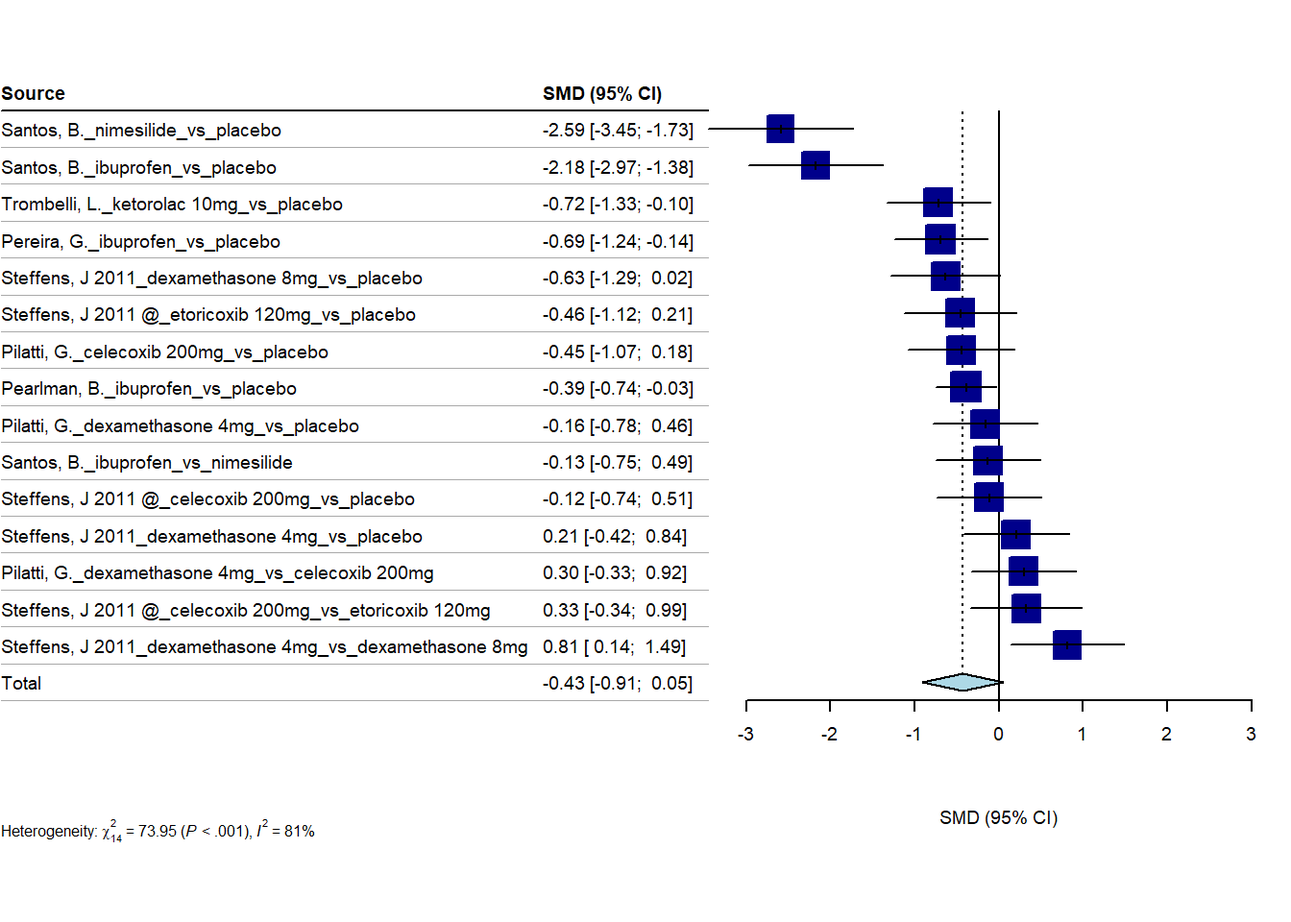
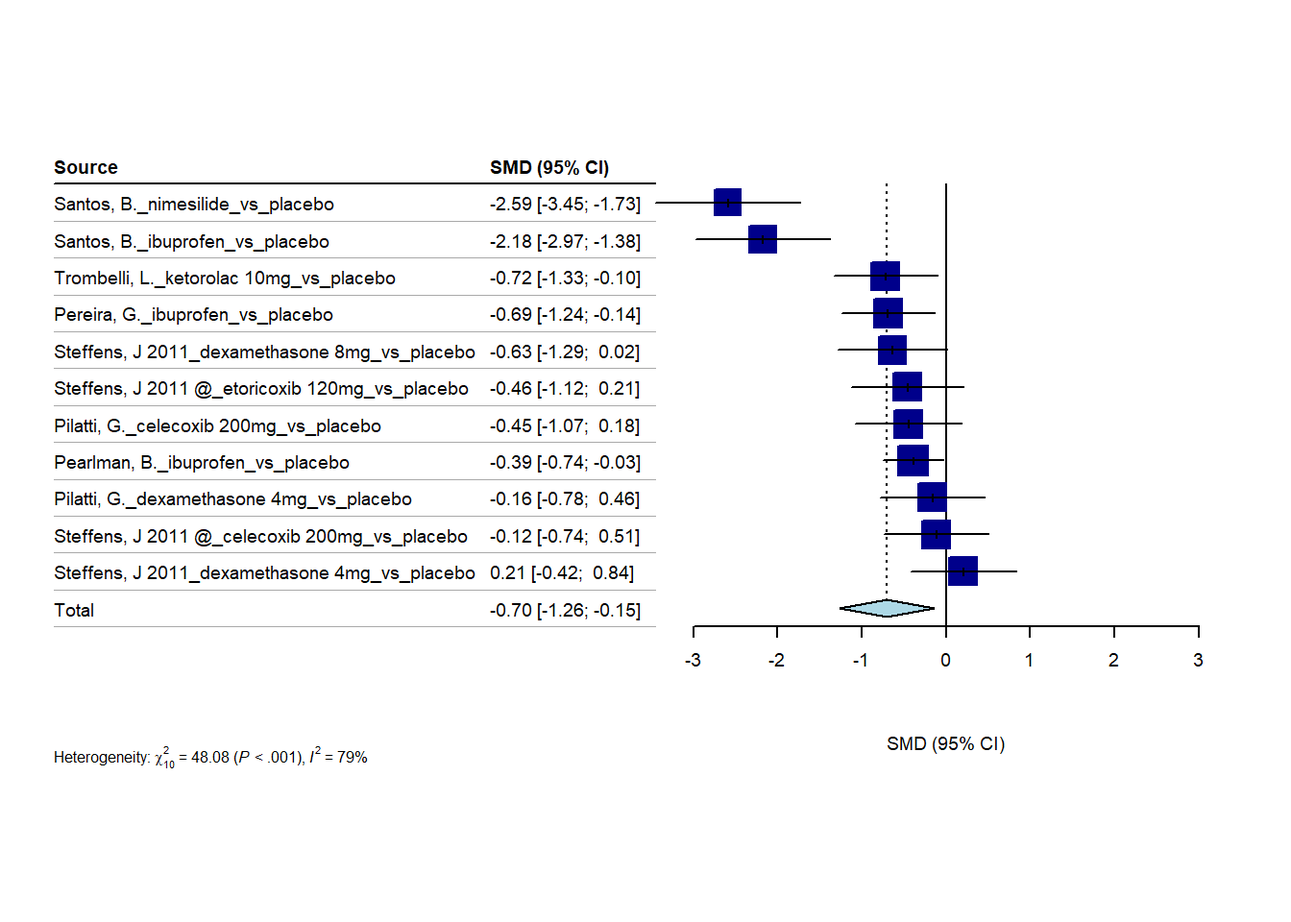
9/7/2023

diff --git a/docs/2023_0301_Christos.html b/docs/2023_0301_Christos.html
@@ -404,7 +404,7 @@ aria-hidden="true"></span> </a>
 <div class="tab-content">
 <div id="summary" class="tab-pane fade in active">
 <p>
-<strong>Last updated:</strong> 2023-09-06
+<strong>Last updated:</strong> 2023-09-07
 </p>
 <p>
 <strong>Checks:</strong> <span
@@ -538,15 +538,15 @@ project makes it easier to run your code on other machines.</p>
 <div class="panel panel-default">
 <div class="panel-heading">
 <p class="panel-title">
-<a data-toggle="collapse" data-parent="#workflowr-checks" href="#strongRepositoryversionstrongahrefhttpsgithubcomhan16Collaborationstree67f6d954cbfee03d641643f161b1d533b949f771targetblank67f6d95a">
+<a data-toggle="collapse" data-parent="#workflowr-checks" href="#strongRepositoryversionstrongahrefhttpsgithubcomhan16Collaborationstreea6275964fa8ff6447bf1c0b9a8a379a9f33f50e7targetblanka627596a">
 <span class="glyphicon glyphicon-ok text-success"
 aria-hidden="true"></span> <strong>Repository version:</strong>
-<a href="https://github.com/han16/Collaborations/tree/67f6d954cbfee03d641643f161b1d533b949f771" target="_blank">67f6d95</a>
+<a href="https://github.com/han16/Collaborations/tree/a6275964fa8ff6447bf1c0b9a8a379a9f33f50e7" target="_blank">a627596</a>
 </a>
 </p>
 </div>
 <div
[2 lines of base64/hex data omitted]
 class="panel-collapse collapse">
 <div class="panel-body">
 <p>
@@ -556,7 +556,7 @@ reproducibility.
 </p>
 <p>
 The results in this page were generated with repository version
-<a href="https://github.com/han16/Collaborations/tree/67f6d954cbfee03d641643f161b1d533b949f771" target="_blank">67f6d95</a>.
+<a href="https://github.com/han16/Collaborations/tree/a6275964fa8ff6447bf1c0b9a8a379a9f33f50e7" target="_blank">a627596</a>.
 See the <em>Past versions</em> tab to see a history of the changes made
 to the R Markdown and HTML files.
 </p>
@@ -621,6 +621,40 @@ Message
 </tr>
 </thead>
 <tbody>
+<tr>
+<td>
+Rmd
+</td>
+<td>
+<a href="https://github.com/han16/Collaborations/blob/a6275964fa8ff6447bf1c0b9a8a379a9f33f50e7/analysis/2023_0301_Christos.Rmd" target="_blank">a627596</a>
+</td>
+<td>
+Han
+</td>
+<td>
+2023-09-06
+</td>
+<td>
+9/6/2023
+</td>
+</tr>
+<tr>
+<td>
+html
+</td>
+<td>
+<a href="https://rawcdn.githack.com/han16/Collaborations/a6275964fa8ff6447bf1c0b9a8a379a9f33f50e7/docs/2023_0301_Christos.html" target="_blank">a627596</a>
+</td>
+<td>
+Han
+</td>
+<td>
+2023-09-06
+</td>
+<td>
+9/6/2023
+</td>
+</tr>
 <tr>
 <td>
 Rmd
@@ -1504,7 +1538,7 @@ dexamethasone 4mg  0.1467</code></pre>
 <h3>forest plot</h3>
 <p><img src="figure/2023_0301_Christos.Rmd/unnamed-chunk-11-1.png" width="672" style="display: block; margin: auto;" /></p>
 <div class="datatables html-widget html-fill-item-overflow-hidden html-fill-item" id="htmlwidget-88fdd2a34d502a66744b" style="width:100%;height:auto;"></div>
-<script type="application/json" data-for="htmlwidget-88fdd2a34d502a66744b">{"x":{"filter":"none","vertical":false,"extensions":["Buttons"],"caption":"<caption>one hour<\/caption>","data":[["Pereira, G._dexamethasone 4mg_vs_placebo","Pilatti, G._celecoxib 200mg_vs_placebo","Steffens, J 2011_dexamethasone 4mg_vs_placebo","Steffens, J 2011_dexamethasone 8mg_vs_placebo","Steffens, J 2011 @_celecoxib 200mg_vs_placebo","Steffens, J 2011 @_etoricoxib 120mg_vs_placebo","Steffens, J 2010_dexamethasone 8mg_vs_placebo","Steffens, J 2010_etoricoxib 120mg_vs_placebo","Trombelli, L._ketorolac 10mg_vs_placebo","Pereira, G._dexamethasone 4mg_vs_celecoxib 200mg","Steffens, J 2011_dexamethasone 4mg_vs_dexamethasone 8mg","Steffens, J 2011 @_celecoxib 200mg_vs_etoricoxib 120mg","Steffens, J 2010_dexamethasone 8mg_vs_etoricoxib 120mg"],[20,20,19,18,20,16,15,15,22,20,19,20,15],[10.84,4.36,10.3,2.64,4,2,1.9,2.2,5.32,10.84,10.3,4,1.9],[18.28,8.34,17.96,5.52,8,6,4.2,4.5,6.69,18.28,17.96,8,4.2],[20,20,20,20,20,20,15,15,21,20,18,16,15],[25.47,25.47,22.35,22.35,22,22,9.9,9.9,20.38,4.36,2.64,2,2.2],[31.19,31.19,29.86,29.86,30,30,12,12,17.23,8.34,5.52,6,4.5]],"container":"<table class=\"display\">\n  <thead>\n    <tr>\n      <th> <\/th>\n      <th>samplesize_exp<\/th>\n      <th>mean_exp<\/th>\n      <th>sd_exp<\/th>\n      <th>samplesize_contr<\/th>\n      <th>mean_contr<\/th>\n      <th>sd_contr<\/th>\n    <\/tr>\n  <\/thead>\n<\/table>","options":{"dom":"Blfrtip","buttons":["copy","csv","excel","pdf","print"],"lengthMenu":[[10,25,50,-1],["10","25","50","All"]],"columnDefs":[{"className":"dt-right","targets":[1,2,3,4,5,6]},{"orderable":false,"targets":0}],"order":[],"autoWidth":false,"orderClasses":false}},"evals":[],"jsHooks":[]}</script>
+<script type="application/json" data-for="htmlwidget-88fdd2a34d502a66744b">{"x":{"filter":"none","vertical":false,"extensions":["Buttons"],"caption":"<caption>3 hours<\/caption>","data":[["Pereira, G._dexamethasone 4mg_vs_placebo","Pilatti, G._celecoxib 200mg_vs_placebo","Steffens, J 2011_dexamethasone 4mg_vs_placebo","Steffens, J 2011_dexamethasone 8mg_vs_placebo","Steffens, J 2011 @_celecoxib 200mg_vs_placebo","Steffens, J 2011 @_etoricoxib 120mg_vs_placebo","Steffens, J 2010_dexamethasone 8mg_vs_placebo","Steffens, J 2010_etoricoxib 120mg_vs_placebo","Trombelli, L._ketorolac 10mg_vs_placebo","Pereira, G._dexamethasone 4mg_vs_celecoxib 200mg","Steffens, J 2011_dexamethasone 4mg_vs_dexamethasone 8mg","Steffens, J 2011 @_celecoxib 200mg_vs_etoricoxib 120mg","Steffens, J 2010_dexamethasone 8mg_vs_etoricoxib 120mg"],[20,20,19,18,20,16,15,15,22,20,19,20,15],[10.84,4.36,10.3,2.64,4,2,1.9,2.2,5.32,10.84,10.3,4,1.9],[18.28,8.34,17.96,5.52,8,6,4.2,4.5,6.69,18.28,17.96,8,4.2],[20,20,20,20,20,20,15,15,21,20,18,16,15],[25.47,25.47,22.35,22.35,22,22,9.9,9.9,20.38,4.36,2.64,2,2.2],[31.19,31.19,29.86,29.86,30,30,12,12,17.23,8.34,5.52,6,4.5]],"container":"<table class=\"display\">\n  <thead>\n    <tr>\n      <th> <\/th>\n      <th>samplesize_exp<\/th>\n      <th>mean_exp<\/th>\n      <th>sd_exp<\/th>\n      <th>samplesize_contr<\/th>\n      <th>mean_contr<\/th>\n      <th>sd_contr<\/th>\n    <\/tr>\n  <\/thead>\n<\/table>","options":{"dom":"Blfrtip","buttons":["copy","csv","excel","pdf","print"],"lengthMenu":[[10,25,50,-1],["10","25","50","All"]],"columnDefs":[{"className":"dt-right","targets":[1,2,3,4,5,6]},{"orderable":false,"targets":0}],"order":[],"autoWidth":false,"orderClasses":false}},"evals":[],"jsHooks":[]}</script>
 </div>
 <div id="network-meta-analysis-1" class="section level3">
 <h3>network meta-analysis</h3>
@@ -1547,7 +1581,7 @@ placebo            0.0012</code></pre>
 <h3>forest plot</h3>
 <p><img src="figure/2023_0301_Christos.Rmd/unnamed-chunk-16-1.png" width="672" style="display: block; margin: auto;" /></p>
 <div class="datatables html-widget html-fill-item-overflow-hidden html-fill-item" id="htmlwidget-bb3486349adfa5d821dc" style="width:100%;height:auto;"></div>
-<script type="application/json" data-for="htmlwidget-bb3486349adfa5d821dc">{"x":{"filter":"none","vertical":false,"extensions":["Buttons"],"caption":"<caption>one hour<\/caption>","data":[["Pereira, G._ibuprofen_vs_placebo","Pilatti, G._dexamethasone 4mg_vs_placebo","Pilatti, G._celecoxib 200mg_vs_placebo","Santos, B._ibuprofen_vs_placebo1","Santos, B._nimesilide_vs_placebo2","Steffens, J 2011_dexamethasone 4mg_vs_placebo","Steffens, J 2011_dexamethasone 8mg_vs_placebo","Steffens, J 2011 @_celecoxib 200mg_vs_placebo","Steffens, J 2011 @_etoricoxib 120mg_vs_placebo","Steffens, J 2010_dexamethasone 8mg_vs_placebo","Steffens, J 2010_etoricoxib 120mg_vs_placebo","Trombelli, L._ketorolac 10mg_vs_placebo","Pilatti, G._dexamethasone 4mg_vs_celecoxib 200mg","Santos, B._ibuprofen_vs_nimesilide","Steffens, J 2011_dexamethasone 4mg_vs_dexamethasone 8mg","Steffens, J 2011 @_celecoxib 200mg_vs_etoricoxib 120mg","Steffens, J 2010_dexamethasone 8mg_vs_etoricoxib 120mg"],[27,20,20,20,20,19,18,20,16,15,15,22,20,20,19,20,15],[4.1,7.52,3.42,32,26,7.15,1.23,3,1,1.1,0.9,14.73,7.52,32,7.15,3,1.1],[5.7,12.34,6.38,20.4,20.3,12.13,3.17,6,3,2.7,2.7,12.95,12.34,20.4,12.13,6,2.7],[27,20,20,20,20,20,20,20,20,15,15,21,20,20,18,16,15],[15.6,10.94,10.94,37.5,44,11.9,11.9,12,12,10.1,10.1,22.95,3.42,26,1.23,1,0.9],[13.6,14.81,14.81,11.6,7.5,16.71,16.71,17,17,17.1,17.1,21.9,6.38,20.3,3.17,3,2.7]],"container":"<table class=\"display\">\n  <thead>\n    <tr>\n      <th> <\/th>\n      <th>samplesize_exp<\/th>\n      <th>mean_exp<\/th>\n      <th>sd_exp<\/th>\n      <th>samplesize_contr<\/th>\n      <th>mean_contr<\/th>\n      <th>sd_contr<\/th>\n    <\/tr>\n  <\/thead>\n<\/table>","options":{"dom":"Blfrtip","buttons":["copy","csv","excel","pdf","print"],"lengthMenu":[[10,25,50,-1],["10","25","50","All"]],"columnDefs":[{"className":"dt-right","targets":[1,2,3,4,5,6]},{"orderable":false,"targets":0}],"order":[],"autoWidth":false,"orderClasses":false}},"evals":[],"jsHooks":[]}</script>
+<script type="application/json" data-for="htmlwidget-bb3486349adfa5d821dc">{"x":{"filter":"none","vertical":false,"extensions":["Buttons"],"caption":"<caption>6 hours<\/caption>","data":[["Pereira, G._ibuprofen_vs_placebo","Pilatti, G._dexamethasone 4mg_vs_placebo","Pilatti, G._celecoxib 200mg_vs_placebo","Santos, B._ibuprofen_vs_placebo1","Santos, B._nimesilide_vs_placebo2","Steffens, J 2011_dexamethasone 4mg_vs_placebo","Steffens, J 2011_dexamethasone 8mg_vs_placebo","Steffens, J 2011 @_celecoxib 200mg_vs_placebo","Steffens, J 2011 @_etoricoxib 120mg_vs_placebo","Steffens, J 2010_dexamethasone 8mg_vs_placebo","Steffens, J 2010_etoricoxib 120mg_vs_placebo","Trombelli, L._ketorolac 10mg_vs_placebo","Pilatti, G._dexamethasone 4mg_vs_celecoxib 200mg","Santos, B._ibuprofen_vs_nimesilide","Steffens, J 2011_dexamethasone 4mg_vs_dexamethasone 8mg","Steffens, J 2011 @_celecoxib 200mg_vs_etoricoxib 120mg","Steffens, J 2010_dexamethasone 8mg_vs_etoricoxib 120mg"],[27,20,20,20,20,19,18,20,16,15,15,22,20,20,19,20,15],[4.1,7.52,3.42,32,26,7.15,1.23,3,1,1.1,0.9,14.73,7.52,32,7.15,3,1.1],[5.7,12.34,6.38,20.4,20.3,12.13,3.17,6,3,2.7,2.7,12.95,12.34,20.4,12.13,6,2.7],[27,20,20,20,20,20,20,20,20,15,15,21,20,20,18,16,15],[15.6,10.94,10.94,37.5,44,11.9,11.9,12,12,10.1,10.1,22.95,3.42,26,1.23,1,0.9],[13.6,14.81,14.81,11.6,7.5,16.71,16.71,17,17,17.1,17.1,21.9,6.38,20.3,3.17,3,2.7]],"container":"<table class=\"display\">\n  <thead>\n    <tr>\n      <th> <\/th>\n      <th>samplesize_exp<\/th>\n      <th>mean_exp<\/th>\n      <th>sd_exp<\/th>\n      <th>samplesize_contr<\/th>\n      <th>mean_contr<\/th>\n      <th>sd_contr<\/th>\n    <\/tr>\n  <\/thead>\n<\/table>","options":{"dom":"Blfrtip","buttons":["copy","csv","excel","pdf","print"],"lengthMenu":[[10,25,50,-1],["10","25","50","All"]],"columnDefs":[{"className":"dt-right","targets":[1,2,3,4,5,6]},{"orderable":false,"targets":0}],"order":[],"autoWidth":false,"orderClasses":false}},"evals":[],"jsHooks":[]}</script>
 </div>
 <div id="network-meta-analysis-2" class="section level3">
 <h3>network meta-analysis</h3>
@@ -1574,7 +1608,7 @@ placebo            0.0230</code></pre>
 <div id="sample-data-3" class="section level3">
 <h3>sample data</h3>
 <div class="datatables html-widget html-fill-item-overflow-hidden html-fill-item" id="htmlwidget-44474b3e8cd160f85a98" style="width:100%;height:auto;"></div>
-<script type="application/json" data-for="htmlwidget-44474b3e8cd160f85a98">{"x":{"filter":"none","vertical":false,"extensions":["Buttons"],"caption":"<caption>6 hours<\/caption>","data":[["1","2","3","4","5","6","7","8","9","10","11","12","13","14","15","16"],["Pilatti, G.","Pilatti, G.","Pilatti, G.","Sanchez-Perez, A.","Sanchez-Perez, A.","Steffens, J 2011","Steffens, J 2011","Steffens, J 2011","Steffens, J 2011 @","Steffens, J 2011 @","Steffens, J 2011 @","Steffens, J 2010","Steffens, J 2010","Steffens, J 2010","Trombelli, L.","Trombelli, L."],["placebo","dexamethasone 4mg","celecoxib 200mg","dexketoprofen trometamol (DKT) 25mg","placebo","dexamethasone 4mg","dexamethasone 8mg","placebo","celecoxib 200mg","etoricoxib 120mg","placebo","placebo","dexamethasone 8mg","etoricoxib 120mg","ketorolac 10mg","placebo"],["20","20","20","41","42","19","18","20","20","16","20","15","15","15","22","21"],[9.47,6.52,3.31,11.14,9.95,6.2,0.64,9.7,3,2,10,8.3,0.3,1.3,21.55,27.67],[12.29,12.82,5.59,15.26,13.83,12.56,1.96,13.83,6,6,24,16,0.9,3.5,16.69,28.23]],"container":"<table class=\"display\">\n  <thead>\n    <tr>\n      <th> <\/th>\n      <th>study<\/th>\n      <th>treatment<\/th>\n      <th>n<\/th>\n      <th>mean<\/th>\n      <th>sd<\/th>\n    <\/tr>\n  <\/thead>\n<\/table>","options":{"dom":"Blfrtip","buttons":["copy","csv","excel","pdf","print"],"lengthMenu":[[10,25,50,-1],["10","25","50","All"]],"columnDefs":[{"className":"dt-right","targets":[4,5]},{"orderable":false,"targets":0}],"order":[],"autoWidth":false,"orderClasses":false}},"evals":[],"jsHooks":[]}</script>
+<script type="application/json" data-for="htmlwidget-44474b3e8cd160f85a98">{"x":{"filter":"none","vertical":false,"extensions":["Buttons"],"caption":"<caption>8 hours<\/caption>","data":[["1","2","3","4","5","6","7","8","9","10","11","12","13","14","15","16"],["Pilatti, G.","Pilatti, G.","Pilatti, G.","Sanchez-Perez, A.","Sanchez-Perez, A.","Steffens, J 2011","Steffens, J 2011","Steffens, J 2011","Steffens, J 2011 @","Steffens, J 2011 @","Steffens, J 2011 @","Steffens, J 2010","Steffens, J 2010","Steffens, J 2010","Trombelli, L.","Trombelli, L."],["placebo","dexamethasone 4mg","celecoxib 200mg","dexketoprofen trometamol (DKT) 25mg","placebo","dexamethasone 4mg","dexamethasone 8mg","placebo","celecoxib 200mg","etoricoxib 120mg","placebo","placebo","dexamethasone 8mg","etoricoxib 120mg","ketorolac 10mg","placebo"],["20","20","20","41","42","19","18","20","20","16","20","15","15","15","22","21"],[9.47,6.52,3.31,11.14,9.95,6.2,0.64,9.7,3,2,10,8.3,0.3,1.3,21.55,27.67],[12.29,12.82,5.59,15.26,13.83,12.56,1.96,13.83,6,6,24,16,0.9,3.5,16.69,28.23]],"container":"<table class=\"display\">\n  <thead>\n    <tr>\n      <th> <\/th>\n      <th>study<\/th>\n      <th>treatment<\/th>\n      <th>n<\/th>\n      <th>mean<\/th>\n      <th>sd<\/th>\n    <\/tr>\n  <\/thead>\n<\/table>","options":{"dom":"Blfrtip","buttons":["copy","csv","excel","pdf","print"],"lengthMenu":[[10,25,50,-1],["10","25","50","All"]],"columnDefs":[{"className":"dt-right","targets":[4,5]},{"orderable":false,"targets":0}],"order":[],"autoWidth":false,"orderClasses":false}},"evals":[],"jsHooks":[]}</script>
 </div>
 <div id="forest-plot-3" class="section level3">
 <h3>forest plot</h3>
@@ -1612,7 +1646,7 @@ dexketoprofen trometamol (DKT) 25mg  0.1145</code></pre>
 <h3>forest plot</h3>
 <p><img src="figure/2023_0301_Christos.Rmd/unnamed-chunk-26-1.png" width="672" style="display: block; margin: auto;" /></p>
 <div class="datatables html-widget html-fill-item-overflow-hidden html-fill-item" id="htmlwidget-7531f021030c44f57ef2" style="width:100%;height:auto;"></div>
-<script type="application/json" data-for="htmlwidget-7531f021030c44f57ef2">{"x":{"filter":"none","vertical":false,"extensions":["Buttons"],"caption":"<caption>8 hours<\/caption>","data":[["Pereira, G._ibuprofen_vs_placebo","Pilatti, G._dexamethasone 4mg_vs_placebo","Pilatti, G._celecoxib 200mg_vs_placebo","Sanchez-Perez, A._dexketoprofen trometamol (DKT) 25mg_vs_placebo","Santos, B._ibuprofen_vs_placebo","Santos, B._nimesilide_vs_placebo","Steffens, J 2011 @_celecoxib 200mg_vs_placebo","Steffens, J 2011 @_etoricoxib 120mg_vs_placebo","Steffens, J 2010_dexamethasone 8mg_vs_placebo","Steffens, J 2010_etoricoxib 120mg_vs_placebo","Trombelli, L._ketorolac 10mg_vs_placebo","Vieth, M._dexamethasone 8mg IV_vs_placebo","Pilatti, G._dexamethasone 4mg_vs_celecoxib 200mg","Santos, B._ibuprofen_vs_nimesilide","Steffens, J 2011 @_celecoxib 200mg_vs_etoricoxib 120mg","Steffens, J 2010_dexamethasone 8mg_vs_etoricoxib 120mg"],[27,20,20,41,20,20,20,16,15,15,22,34,20,20,20,15],[4.4,3.89,3.84,7.86,19.5,26,3,0,0,0.3,7.77,8.5,3.89,19.5,3,0],[6.9,7.83,7.66,13.29,15,15,8,1,0,1.3,10.42,9,7.83,15,8,0],[27,20,20,42,20,20,20,20,15,15,21,34,20,20,16,15],[15.6,6.68,6.68,6.56,21.5,40.5,3,3,0.9,0.9,5.33,4.5,3.84,26,0,0.3],[11.2,11.52,11.52,11.6,14,11.4,8,8,2.6,2.6,7.44,6.5,7.66,15,1,1.3]],"container":"<table class=\"display\">\n  <thead>\n    <tr>\n      <th> <\/th>\n      <th>samplesize_exp<\/th>\n      <th>mean_exp<\/th>\n      <th>sd_exp<\/th>\n      <th>samplesize_contr<\/th>\n      <th>mean_contr<\/th>\n      <th>sd_contr<\/th>\n    <\/tr>\n  <\/thead>\n<\/table>","options":{"dom":"Blfrtip","buttons":["copy","csv","excel","pdf","print"],"lengthMenu":[[10,25,50,-1],["10","25","50","All"]],"columnDefs":[{"className":"dt-right","targets":[1,2,3,4,5,6]},{"orderable":false,"targets":0}],"order":[],"autoWidth":false,"orderClasses":false}},"evals":[],"jsHooks":[]}</script>
+<script type="application/json" data-for="htmlwidget-7531f021030c44f57ef2">{"x":{"filter":"none","vertical":false,"extensions":["Buttons"],"caption":"<caption>24 hours<\/caption>","data":[["Pereira, G._ibuprofen_vs_placebo","Pilatti, G._dexamethasone 4mg_vs_placebo","Pilatti, G._celecoxib 200mg_vs_placebo","Sanchez-Perez, A._dexketoprofen trometamol (DKT) 25mg_vs_placebo","Santos, B._ibuprofen_vs_placebo","Santos, B._nimesilide_vs_placebo","Steffens, J 2011 @_celecoxib 200mg_vs_placebo","Steffens, J 2011 @_etoricoxib 120mg_vs_placebo","Steffens, J 2010_dexamethasone 8mg_vs_placebo","Steffens, J 2010_etoricoxib 120mg_vs_placebo","Trombelli, L._ketorolac 10mg_vs_placebo","Vieth, M._dexamethasone 8mg IV_vs_placebo","Pilatti, G._dexamethasone 4mg_vs_celecoxib 200mg","Santos, B._ibuprofen_vs_nimesilide","Steffens, J 2011 @_celecoxib 200mg_vs_etoricoxib 120mg","Steffens, J 2010_dexamethasone 8mg_vs_etoricoxib 120mg"],[27,20,20,41,20,20,20,16,15,15,22,34,20,20,20,15],[4.4,3.89,3.84,7.86,19.5,26,3,0,0,0.3,7.77,8.5,3.89,19.5,3,0],[6.9,7.83,7.66,13.29,15,15,8,1,0,1.3,10.42,9,7.83,15,8,0],[27,20,20,42,20,20,20,20,15,15,21,34,20,20,16,15],[15.6,6.68,6.68,6.56,21.5,40.5,3,3,0.9,0.9,5.33,4.5,3.84,26,0,0.3],[11.2,11.52,11.52,11.6,14,11.4,8,8,2.6,2.6,7.44,6.5,7.66,15,1,1.3]],"container":"<table class=\"display\">\n  <thead>\n    <tr>\n      <th> <\/th>\n      <th>samplesize_exp<\/th>\n      <th>mean_exp<\/th>\n      <th>sd_exp<\/th>\n      <th>samplesize_contr<\/th>\n      <th>mean_contr<\/th>\n      <th>sd_contr<\/th>\n    <\/tr>\n  <\/thead>\n<\/table>","options":{"dom":"Blfrtip","buttons":["copy","csv","excel","pdf","print"],"lengthMenu":[[10,25,50,-1],["10","25","50","All"]],"columnDefs":[{"className":"dt-right","targets":[1,2,3,4,5,6]},{"orderable":false,"targets":0}],"order":[],"autoWidth":false,"orderClasses":false}},"evals":[],"jsHooks":[]}</script>
 </div>
 <div id="network-meta-analysis-4" class="section level3">
 <h3>network meta-analysis</h3>
@@ -1639,6 +1673,39 @@ dexamethasone 8mg IV                 0.0921</code></pre>
 <p><img src="figure/2023_0301_Christos.Rmd/unnamed-chunk-29-1.png" width="672" style="display: block; margin: auto;" /></p>
 </div>
 </div>
+<div id="days" class="section level2">
+<h2>3 days</h2>
+<div id="sample-data-5" class="section level3">
+<h3>sample data</h3>
+<div class="datatables html-widget html-fill-item-overflow-hidden html-fill-item" id="htmlwidget-983315589fed18d622a7" style="width:100%;height:auto;"></div>
+<script type="application/json" data-for="htmlwidget-983315589fed18d622a7">{"x":{"filter":"none","vertical":false,"extensions":["Buttons"],"caption":"<caption>3 days<\/caption>","data":[["1","2","3","4","5","6","7","8","9","10","11","12","13","14","15"],["Pereira, G.","Pereira, G.","Pilatti, G.","Pilatti, G.","Pilatti, G.","Sanchez-Perez, A.","Sanchez-Perez, A.","Santos, B.","Santos, B.","Santos, B.","Santos, B.","Steffens, J 2010","Steffens, J 2010","Vieth, M.","Vieth, M."],["ibuprofen","placebo","placebo","dexamethasone 4mg","celecoxib 200mg","dexketoprofen trometamol (DKT) 25mg","placebo","ibuprofen","placebo 1","nimesilide","placebo 2","placebo","etoricoxib 120mg","dexamethasone 8mg IV","placebo"],["27","27","20","20","20","41","42","20","20","20","20","15","15","34","34"],[1.6,2.7,3.21,3.47,2,7.61,6.89,3.5,3.5,9,22.5,1.7,0.3,6,3.5],[4.7,7.1,5.92,9.89,2.6,13.48,12.16,8.7,8.7,14.4,14.8,5.2,1.3,8,5]],"container":"<table class=\"display\">\n  <thead>\n    <tr>\n      <th> <\/th>\n      <th>study<\/th>\n      <th>treatment<\/th>\n      <th>n<\/th>\n      <th>mean<\/th>\n      <th>sd<\/th>\n    <\/tr>\n  <\/thead>\n<\/table>","options":{"dom":"Blfrtip","buttons":["copy","csv","excel","pdf","print"],"lengthMenu":[[10,25,50,-1],["10","25","50","All"]],"columnDefs":[{"className":"dt-right","targets":[4,5]},{"orderable":false,"targets":0}],"order":[],"autoWidth":false,"orderClasses":false}},"evals":[],"jsHooks":[]}</script>
+</div>
+<div id="forest-plot-5" class="section level3">
+<h3>forest plot</h3>
+<p><img src="figure/2023_0301_Christos.Rmd/unnamed-chunk-31-1.png" width="672" style="display: block; margin: auto;" /></p>
+<div class="datatables html-widget html-fill-item-overflow-hidden html-fill-item" id="htmlwidget-6f1d8b9e786d9d3fe28d" style="width:100%;height:auto;"></div>
+<script type="application/json" data-for="htmlwidget-6f1d8b9e786d9d3fe28d">{"x":{"filter":"none","vertical":false,"extensions":["Buttons"],"caption":"<caption>3 days<\/caption>","data":[["Pereira, G._ibuprofen_vs_placebo","Pilatti, G._dexamethasone 4mg_vs_placebo","Pilatti, G._celecoxib 200mg_vs_placebo","Sanchez-Perez, A._dexketoprofen trometamol (DKT) 25mg_vs_placebo","Santos, B._ibuprofen_vs_placebo","Santos, B._nimesilide_vs_placebo","Steffens, J 2010_etoricoxib 120mg_vs_placebo","Vieth, M._dexamethasone 8mg IV_vs_placebo","Pilatti, G._dexamethasone 4mg_vs_celecoxib 200mg","Santos, B._ibuprofen_vs_nimesilide"],[27,20,20,41,20,20,15,34,20,20],[1.6,3.47,2,7.61,3.5,9,0.3,6,3.47,3.5],[4.7,9.89,2.6,13.48,8.7,14.4,1.3,8,9.89,8.7],[27,20,20,42,20,20,15,34,20,20],[2.7,3.21,3.21,6.89,3.5,22.5,1.7,3.5,2,9],[7.1,5.92,5.92,12.16,8.7,14.8,5.2,5,2.6,14.4]],"container":"<table class=\"display\">\n  <thead>\n    <tr>\n      <th> <\/th>\n      <th>samplesize_exp<\/th>\n      <th>mean_exp<\/th>\n      <th>sd_exp<\/th>\n      <th>samplesize_contr<\/th>\n      <th>mean_contr<\/th>\n      <th>sd_contr<\/th>\n    <\/tr>\n  <\/thead>\n<\/table>","options":{"dom":"Blfrtip","buttons":["copy","csv","excel","pdf","print"],"lengthMenu":[[10,25,50,-1],["10","25","50","All"]],"columnDefs":[{"className":"dt-right","targets":[1,2,3,4,5,6]},{"orderable":false,"targets":0}],"order":[],"autoWidth":false,"orderClasses":false}},"evals":[],"jsHooks":[]}</script>
+</div>
+<div id="network-meta-analysis-5" class="section level3">
+<h3>network meta-analysis</h3>
+<p><img src="figure/2023_0301_Christos.Rmd/unnamed-chunk-32-1.png" width="672" style="display: block; margin: auto;" /></p>
+<p><img src="figure/2023_0301_Christos.Rmd/unnamed-chunk-33-1.png" width="672" style="display: block; margin: auto;" /></p>
+<ul>
+<li>a mean path length &gt; 2 means that a comparison estimate should be
+interpreted with particular caution.</li>
+</ul>
+<pre><code>                                    P-score
+nimesilide                           0.7178
+ibuprofen                            0.6929
+etoricoxib 120mg                     0.6707
+celecoxib 200mg                      0.6055
+dexamethasone 4mg                    0.4008
+placebo                              0.3774
+dexketoprofen trometamol (DKT) 25mg  0.3700
+dexamethasone 8mg IV                 0.1649</code></pre>
+<p><img src="figure/2023_0301_Christos.Rmd/unnamed-chunk-34-1.png" width="672" style="display: block; margin: auto;" /></p>
+</div>
+</div>
 <div id="sample-size-determination" class="section level2">
 <h2>Sample size determination</h2>
 <ul>
@@ -1658,8 +1725,8 @@ datatable(extensions = &#39;Buttons&#39;,
                            buttons = c(&#39;copy&#39;, &#39;csv&#39;, &#39;excel&#39;, &#39;pdf&#39;, &#39;print&#39;),
                            lengthMenu = list(c(10,25,50,-1),
                                              c(10,25,50,&quot;All&quot;))))</code></pre>
-<div class="datatables html-widget html-fill-item-overflow-hidden html-fill-item" id="htmlwidget-983315589fed18d622a7" style="width:100%;height:auto;"></div>
-<script type="application/json" data-for="htmlwidget-983315589fed18d622a7">{"x":{"filter":"none","vertical":false,"extensions":["Buttons"],"caption":"<caption>mean difference vs sample size<\/caption>","data":[["1","2","3","4","5","6","7","8","9","10","11","12","13","14","15","16","17","18","19","20"],[1,2,3,4,5,6,7,8,9,10,11,12,13,14,15,16,17,18,19,20],[2792,699,311,175,113,78,58,45,35,29,24,20,18,15,13,12,11,10,9,8]],"container":"<table class=\"display\">\n  <thead>\n    <tr>\n      <th> <\/th>\n      <th>mean_difference<\/th>\n      <th>sample_size<\/th>\n    <\/tr>\n  <\/thead>\n<\/table>","options":{"dom":"Blfrtip","buttons":["copy","csv","excel","pdf","print"],"lengthMenu":[[10,25,50,-1],["10","25","50","All"]],"columnDefs":[{"className":"dt-right","targets":[1,2]},{"orderable":false,"targets":0}],"order":[],"autoWidth":false,"orderClasses":false}},"evals":[],"jsHooks":[]}</script>
+<div class="datatables html-widget html-fill-item-overflow-hidden html-fill-item" id="htmlwidget-dcdfc64296f5794e54a4" style="width:100%;height:auto;"></div>
+<script type="application/json" data-for="htmlwidget-dcdfc64296f5794e54a4">{"x":{"filter":"none","vertical":false,"extensions":["Buttons"],"caption":"<caption>mean difference vs sample size<\/caption>","data":[["1","2","3","4","5","6","7","8","9","10","11","12","13","14","15","16","17","18","19","20"],[1,2,3,4,5,6,7,8,9,10,11,12,13,14,15,16,17,18,19,20],[2792,699,311,175,113,78,58,45,35,29,24,20,18,15,13,12,11,10,9,8]],"container":"<table class=\"display\">\n  <thead>\n    <tr>\n      <th> <\/th>\n      <th>mean_difference<\/th>\n      <th>sample_size<\/th>\n    <\/tr>\n  <\/thead>\n<\/table>","options":{"dom":"Blfrtip","buttons":["copy","csv","excel","pdf","print"],"lengthMenu":[[10,25,50,-1],["10","25","50","All"]],"columnDefs":[{"className":"dt-right","targets":[1,2]},{"orderable":false,"targets":0}],"order":[],"autoWidth":false,"orderClasses":false}},"evals":[],"jsHooks":[]}</script>
 <ul>
 <li><p>sample size with varying mean difference, given 80%
 power.</p></li>
@@ -1679,8 +1746,8 @@ datatable(extensions = &#39;Buttons&#39;,
                            buttons = c(&#39;copy&#39;, &#39;csv&#39;, &#39;excel&#39;, &#39;pdf&#39;, &#39;print&#39;),
                            lengthMenu = list(c(10,25,50,-1),
                                              c(10,25,50,&quot;All&quot;))))</code></pre>
-<div class="datatables html-widget html-fill-item-overflow-hidden html-fill-item" id="htmlwidget-6f1d8b9e786d9d3fe28d" style="width:100%;height:auto;"></div>
-<script type="application/json" data-for="htmlwidget-6f1d8b9e786d9d3fe28d">{"x":{"filter":"none","vertical":false,"extensions":["Buttons"],"caption":"<caption>mean difference vs sample size<\/caption>","data":[["1","2","3","4","5","6","7","8"],[0.1,0.6,1.1,1.6,2.1,2.6,3.1,3.6],[3439,96,29,14,9,6,5,4]],"container":"<table class=\"display\">\n  <thead>\n    <tr>\n      <th> <\/th>\n      <th>mean_difference<\/th>\n      <th>sample_size<\/th>\n    <\/tr>\n  <\/thead>\n<\/table>","options":{"dom":"Blfrtip","buttons":["copy","csv","excel","pdf","print"],"lengthMenu":[[10,25,50,-1],["10","25","50","All"]],"columnDefs":[{"className":"dt-right","targets":[1,2]},{"orderable":false,"targets":0}],"order":[],"autoWidth":false,"orderClasses":false}},"evals":[],"jsHooks":[]}</script>
+<div class="datatables html-widget html-fill-item-overflow-hidden html-fill-item" id="htmlwidget-873249b169eb6149d57e" style="width:100%;height:auto;"></div>
+<script type="application/json" data-for="htmlwidget-873249b169eb6149d57e">{"x":{"filter":"none","vertical":false,"extensions":["Buttons"],"caption":"<caption>mean difference vs sample size<\/caption>","data":[["1","2","3","4","5","6","7","8"],[0.1,0.6,1.1,1.6,2.1,2.6,3.1,3.6],[3439,96,29,14,9,6,5,4]],"container":"<table class=\"display\">\n  <thead>\n    <tr>\n      <th> <\/th>\n      <th>mean_difference<\/th>\n      <th>sample_size<\/th>\n    <\/tr>\n  <\/thead>\n<\/table>","options":{"dom":"Blfrtip","buttons":["copy","csv","excel","pdf","print"],"lengthMenu":[[10,25,50,-1],["10","25","50","All"]],"columnDefs":[{"className":"dt-right","targets":[1,2]},{"orderable":false,"targets":0}],"order":[],"autoWidth":false,"orderClasses":false}},"evals":[],"jsHooks":[]}</script>
 <ul>
 <li>sample size with varying mean difference, given 80% power.</li>
 </ul>
